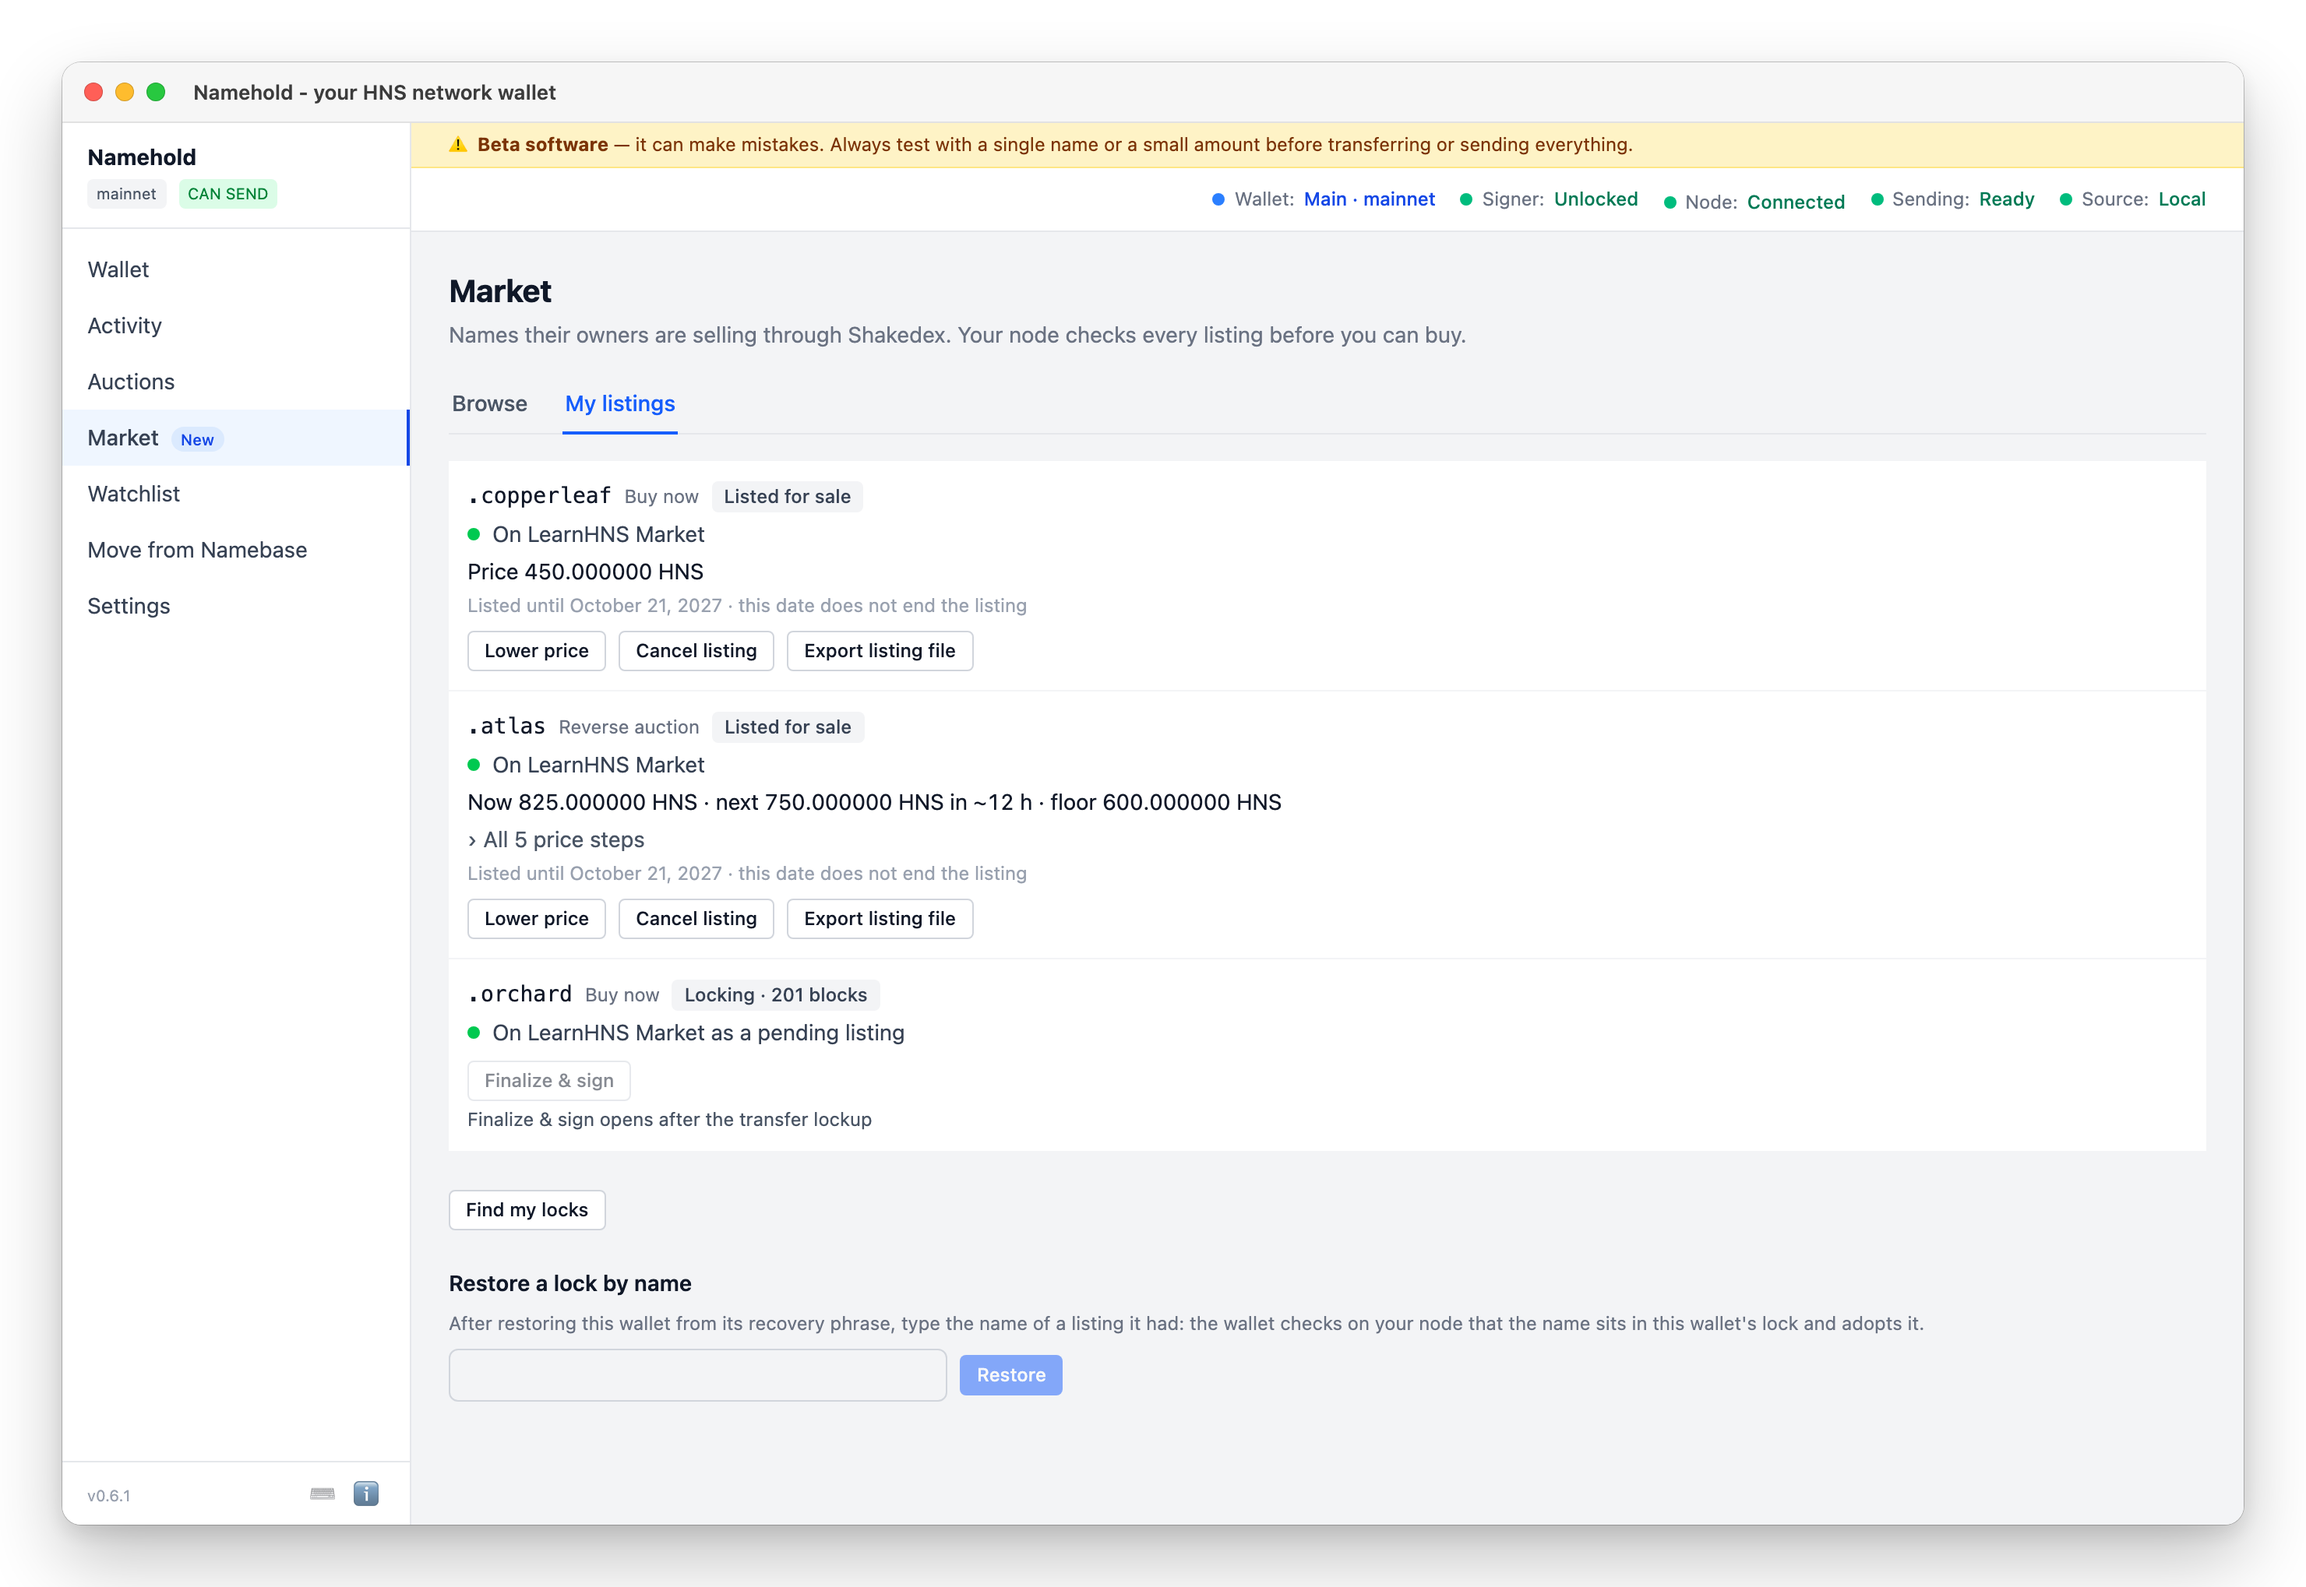
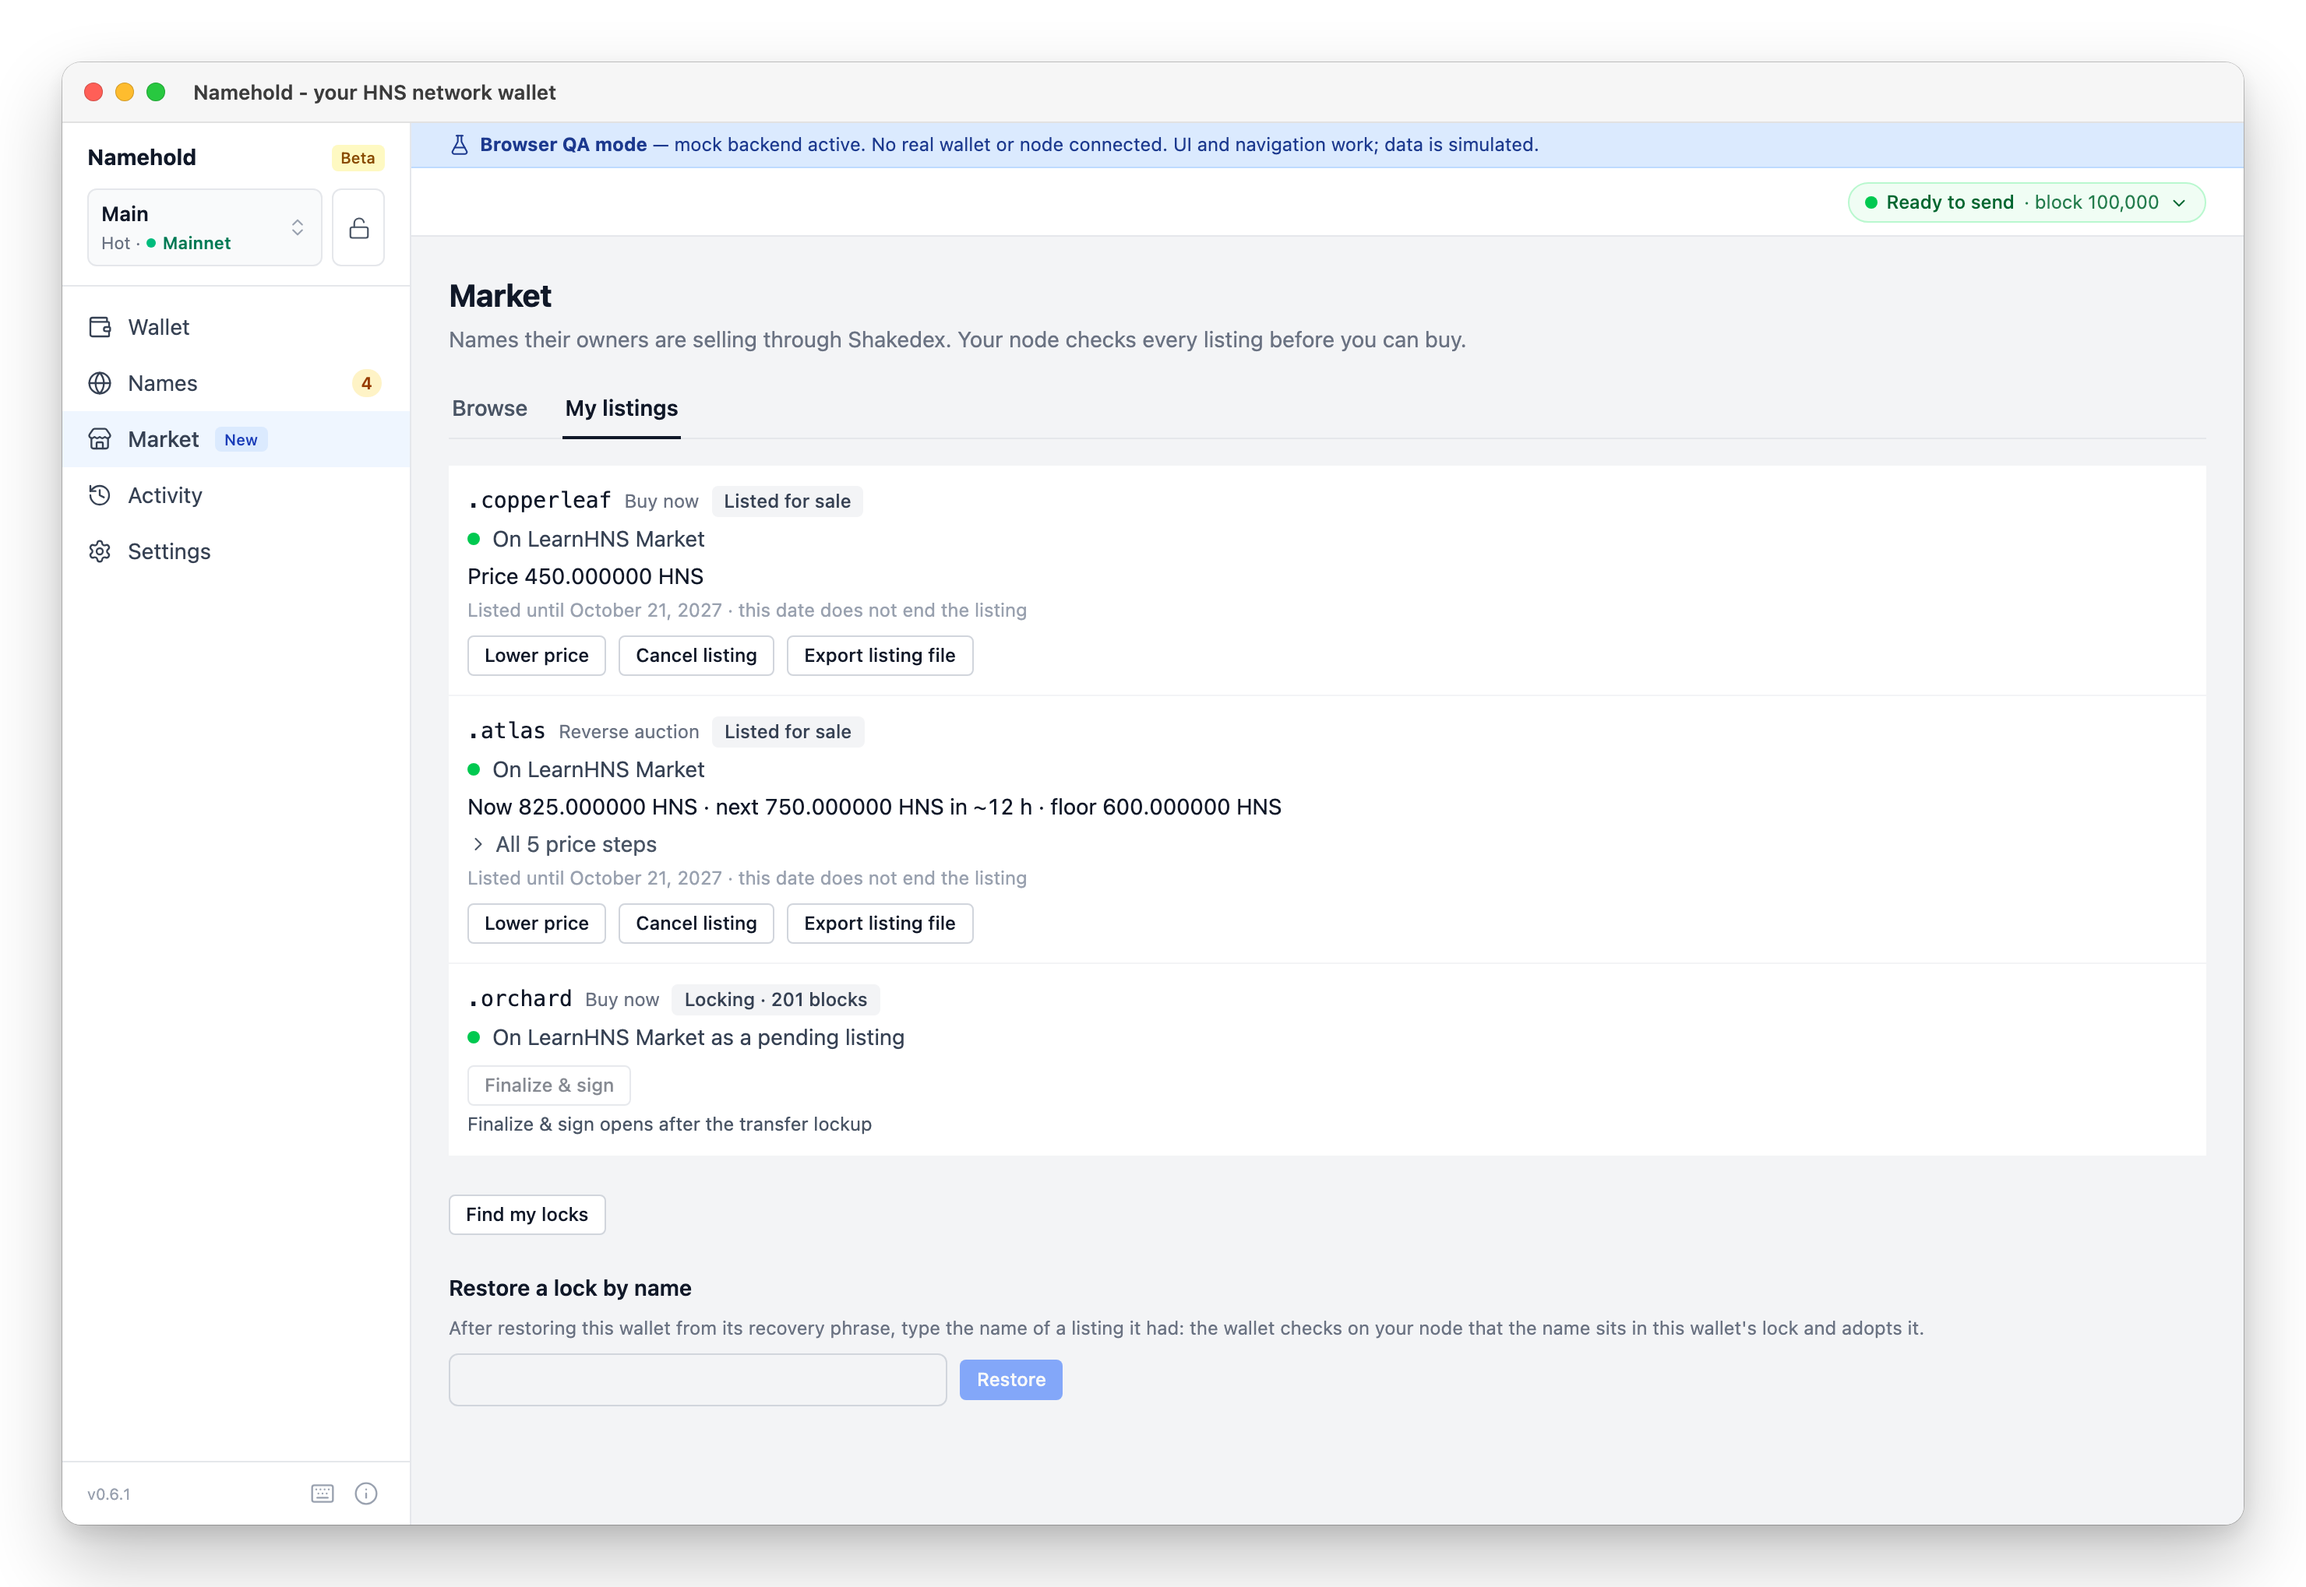
docs(readme): screenshots of the redesigned screens, with the ICANN flag on a name's page
The README's screenshot set follows the v2 redesign: Wallet, Names, a name's page and the Market (Browse and My listings). The Auctions and Namebase-history images go with their screens. The showcase now answers read_name_info and read_name_records for its owned names, so a name's page shows its heights, values and records; .atlas, an applied-for string in ICANN's 2026 round, carries the ICANN badge and the Details row. Activity has no showcase data yet and stays out of the set.

diff --git a/screenshots/scenes.ts b/screenshots/scenes.ts
@@ -12,25 +12,16 @@ export interface Scene {
 
 export const SCENES: Scene[] = [
   { file: "wallet", route: "/" },
-  { file: "auctions", route: "/auctions" },
+  { file: "names", route: "/names" },
+  // A name of ours that is also an applied-for string in ICANN's 2026 round:
+  // the ICANN badge in the header and the row in Details.
+  { file: "name", route: "/names/atlas" },
   { file: "market", route: "/market" },
   {
     file: "market-listings",
     route: "/market",
     prepare: async (page) => {
       await page.getByRole("tab", { name: "My listings" }).click();
-    },
-  },
-  {
-    file: "namebase-migration",
-    route: "/migration",
-    prepare: async (page) => {
-      await page.getByRole("button", { name: "Show details" }).click();
-      // The shutdown notice above takes half the window; bring the history up.
-      const card = page.locator("div.rounded", {
-        has: page.getByRole("heading", { name: "Account history (imported)" }),
-      });
-      await card.last().evaluate((el) => el.scrollIntoView({ block: "start" }));
     },
   },
 ];

diff --git a/screenshots/showcase/world.ts b/screenshots/showcase/world.ts
@@ -14,6 +14,7 @@
 import type {
   AuctionTaskState,
   HsdName,
+  NameResource,
   NameActionCapabilities,
   NameActionCapability,
   ReceiveAddressRow,
@@ -619,5 +620,18 @@ export function namebaseSummary(): NamebaseHistorySummary {
     totalUsdCents: rows.reduce((s, r) => s + (r.usdCents ?? 0), 0),
     earliest: rows[rows.length - 1]!.createdAt,
     latest: rows[0]!.createdAt,
+  };
+}
+
+/** The DNS records of an owned name, as the Records preview on its page reads them. */
+export function records(name: string): NameResource {
+  if (!OWNED.some(([n]) => n === name)) return { records: [] };
+  return {
+    records: [
+      { type: "NS", ns: `ns1.${name}.` },
+      { type: "GLUE4", ns: `ns1.${name}.`, address: "203.0.113.10" },
+      { type: "TXT", txt: ["v=spf1 -all"] },
+    ],
+    ttl: 3600,
   };
 }

diff --git a/screenshots/showcase/index.ts b/screenshots/showcase/index.ts
@@ -19,6 +19,11 @@ globalThis.__webqa_overrides = {
   get_wallet_balances: world.balances(),
   read_balance: world.legacyBalance(),
   read_names: world.names(),
+  // The name page reads one name; the showcase's owned names answer it, so
+  // Details shows their heights and values instead of "Nothing on-chain yet."
+  read_name_info: (args?: Record<string, unknown>) =>
+    world.names().find((n) => n.name === String(args?.name)) ?? null,
+  read_name_records: (args?: Record<string, unknown>) => world.records(String(args?.name)),
   read_renewals: world.renewals(),
   read_auction_position_names: world.auctionPositionNames(),
   get_name_action_capabilities: (args?: Record<string, unknown>) =>

diff --git a/README.md b/README.md
@@ -21,20 +21,20 @@ Built with Tauri v2, React + TypeScript, Rust, and SQLite.
 
 <table>
   <tr>
-    <td width="50%"><a href="docs/assets/auctions.png"><img src="docs/assets/auctions.png" alt="Auctions: every name you are bidding on, with its next step and countdown" /></a></td>
+    <td width="50%"><a href="docs/assets/names.png"><img src="docs/assets/names.png" alt="Names: every name you own, bid on or watch, with its next step, countdown and filters" /></a></td>
+    <td width="50%"><a href="docs/assets/name.png"><img src="docs/assets/name.png" alt="A name's page: its timeline, details and actions, with the ICANN badge on a name someone also applied for as a gTLD" /></a></td>
+  </tr>
+  <tr>
+    <td align="center">Names</td>
+    <td align="center">A name, with the ICANN 2026 round flag</td>
+  </tr>
+  <tr>
     <td width="50%"><a href="docs/assets/market.png"><img src="docs/assets/market.png" alt="Market: Shakedex listings checked by your node, and your purchases on their way" /></a></td>
-  </tr>
-  <tr>
-    <td align="center">Auctions</td>
-    <td align="center">Market (Shakedex)</td>
-  </tr>
-  <tr>
     <td width="50%"><a href="docs/assets/market-listings.png"><img src="docs/assets/market-listings.png" alt="My listings: your names for sale, Buy Now and reverse auction, and one still in its transfer lockup" /></a></td>
-    <td width="50%"><a href="docs/assets/namebase-migration.png"><img src="docs/assets/namebase-migration.png" alt="Move from Namebase: the history you exported, imported" /></a></td>
   </tr>
   <tr>
+    <td align="center">Market (Shakedex)</td>
     <td align="center">Selling your names</td>
-    <td align="center">Namebase history</td>
   </tr>
 </table>
 

diff --git a/CHANGELOG.md b/CHANGELOG.md
@@ -17,6 +17,9 @@
 ### Added
 - **ICANN collision flag.** A name that someone has also applied for as a new gTLD in ICANN's 2026 round (1,614 applications on 1,203 strings as of 29 October 2026) carries a yellow ICANN badge on the Names page and in the header of its own page; the badge's tooltip gives the applicant count and whether the string is in contention. Details opens with an "ICANN 2026 round" row naming the applicants, each a link to the application on ICANN's site, and the date of the list; it shows even for a watched name nobody has opened on-chain. The Filters popover gets an "ICANN 2026 round" switch, kept in the URL as `icann=collision`. The list of strings ships with the app, refreshed by `just icann-strings`; the app never contacts ICANN. An applicant who switched to a replacement string counts only under the string they ended on.
 
+### Changed
+- **README screenshots show the redesigned app.** Wallet, Names, a name's page (with the ICANN flag) and the Market replace the Auctions and Namebase-history images, whose screens are gone; `just screenshots` regenerates them.
+
 ## [0.6.1] - 2026-10-25
 
 > **Highlights:** wallets on different networks each get their own node, started when you switch to them; the Linux AppImage runs background sync and starts for every user of the machine; and fixes to Speed up in Activity, finalize reminders and testnet nodes.

diff --git a/screenshots/README.md b/screenshots/README.md
@@ -4,7 +4,7 @@ Generates the screenshots in `docs/assets/` that the main README shows. The app 
 
 ```bash
 just screenshots                  # every scene
-just screenshots market auctions  # only these
+just screenshots market names     # only these
 ```
 
 The first run needs Playwright's browser: `cd screenshots && pnpm exec playwright install chromium`.
